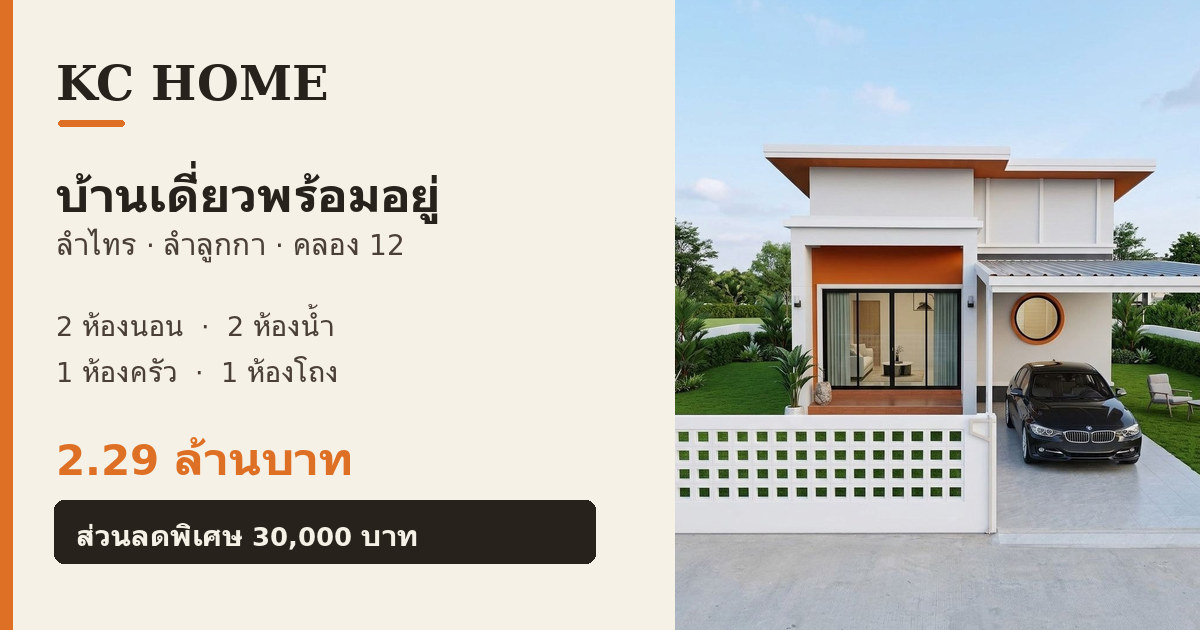
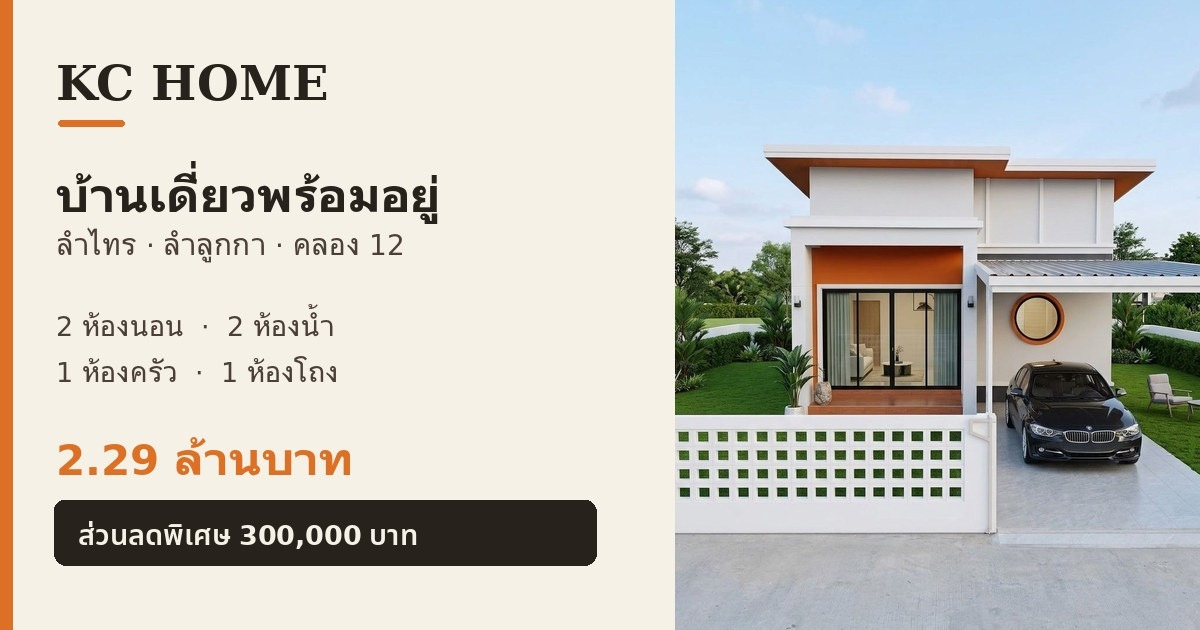
Add files via upload

Changed region(s): [[0.0617, 0.8143, 0.4933, 0.9048], [0.0617, 0.6937, 0.3083, 0.754], [0.0617, 0.181, 0.0925, 0.2111]]

diff --git a/index.html b/index.html
@@ -3,7 +3,7 @@
 <head>
 <meta charset="UTF-8">
 <meta name="viewport" content="width=device-width, initial-scale=1.0">
-<meta name="description" content="KC HOME บ้านเดี่ยวพร้อมอยู่ ลำไทร ลำลูกกา คลอง 12 ราคา 2.29 ล้านบาท 2 ห้องนอน 2 ห้องน้ำ 1 ห้องครัว 1 ห้องโถง ที่จอดรถ 1 คัน พร้อมส่วนลด 30,000 บาท โทร 094-736-6387">
+<meta name="description" content="KC HOME บ้านเดี่ยวพร้อมอยู่ ลำไทร ลำลูกกา คลอง 12 ราคา 2.29 ล้านบาท 2 ห้องนอน 2 ห้องน้ำ 1 ห้องครัว 1 ห้องโถง ที่จอดรถ 1 คัน พร้อมส่วนลด 300,000 บาท โทร 094-736-6387">
 <meta name="robots" content="index, follow, max-image-preview:large">
 <link rel="canonical" href="https://kchome.online/">
 <link rel="icon" href="/favicon.ico" sizes="any">
@@ -16,17 +16,17 @@
 <meta property="og:locale" content="th_TH">
 <meta property="og:site_name" content="KC HOME">
 <meta property="og:title" content="บ้านเดี่ยวพร้อมอยู่ ลำลูกกา คลอง 12 | KC HOME ลำไทร">
-<meta property="og:description" content="บ้านเดี่ยวพร้อมอยู่ ลำไทร ลำลูกกา คลอง 12 ราคา 2.29 ล้านบาท 2 ห้องนอน 2 ห้องน้ำ พร้อมส่วนลด 30,000 บาท โทร 094-736-6387">
+<meta property="og:description" content="บ้านเดี่ยวพร้อมอยู่ ลำไทร ลำลูกกา คลอง 12 ราคา 2.29 ล้านบาท 2 ห้องนอน 2 ห้องน้ำ พร้อมส่วนลด 300,000 บาท โทร 094-736-6387">
 <meta property="og:url" content="https://kchome.online/">
 <meta property="og:image" content="https://kchome.online/assets/images/kc-home-social.jpg">
 <meta property="og:image:secure_url" content="https://kchome.online/assets/images/kc-home-social.jpg">
 <meta property="og:image:type" content="image/jpeg">
 <meta property="og:image:width" content="1200">
 <meta property="og:image:height" content="630">
-<meta property="og:image:alt" content="บ้านเดี่ยว KC HOME ลำไทร ลำลูกกา คลอง 12 ราคา 2.29 ล้านบาท พร้อมส่วนลด 30,000 บาท">
+<meta property="og:image:alt" content="บ้านเดี่ยว KC HOME ลำไทร ลำลูกกา คลอง 12 ราคา 2.29 ล้านบาท พร้อมส่วนลด 300,000 บาท">
 <meta name="twitter:card" content="summary_large_image">
 <meta name="twitter:title" content="บ้านเดี่ยวพร้อมอยู่ ลำลูกกา คลอง 12 | KC HOME ลำไทร">
-<meta name="twitter:description" content="บ้านเดี่ยวพร้อมอยู่ 2 ห้องนอน 2 ห้องน้ำ ราคา 2.29 ล้านบาท พร้อมส่วนลด 30,000 บาท">
+<meta name="twitter:description" content="บ้านเดี่ยวพร้อมอยู่ 2 ห้องนอน 2 ห้องน้ำ ราคา 2.29 ล้านบาท พร้อมส่วนลด 300,000 บาท">
 <meta name="twitter:image" content="https://kchome.online/assets/images/kc-home-social.jpg">
 <meta name="twitter:image:alt" content="บ้านเดี่ยว KC HOME ลำไทร ลำลูกกา คลอง 12">
 <script type="application/ld+json">
@@ -61,7 +61,7 @@
       "@id": "https://kchome.online/#webpage",
       "url": "https://kchome.online/",
       "name": "บ้านเดี่ยวพร้อมอยู่ ลำลูกกา คลอง 12 | KC HOME ลำไทร",
-      "description": "KC HOME บ้านเดี่ยวพร้อมอยู่ ลำไทร ลำลูกกา คลอง 12 ราคา 2.29 ล้านบาท 2 ห้องนอน 2 ห้องน้ำ 1 ห้องครัว 1 ห้องโถง ที่จอดรถ 1 คัน พร้อมส่วนลด 30,000 บาท",
+      "description": "KC HOME บ้านเดี่ยวพร้อมอยู่ ลำไทร ลำลูกกา คลอง 12 ราคา 2.29 ล้านบาท 2 ห้องนอน 2 ห้องน้ำ 1 ห้องครัว 1 ห้องโถง ที่จอดรถ 1 คัน พร้อมส่วนลด 300,000 บาท",
       "inLanguage": "th-TH",
       "isPartOf": {"@id": "https://kchome.online/#website"},
       "primaryImageOfPage": {
@@ -1172,7 +1172,7 @@
         <div class="spec-row"><span class="k"><span class="spec-icon" aria-hidden="true"><svg viewBox="0 0 24 24"><path d="M4 10h16l-1 10H5L4 10Z"/><path d="M3 10h18M7 7V4M12 7V3M17 7V4M8 14h8"/></svg></span>ห้องครัว</span><span class="v">1 ห้อง</span></div>
         <div class="spec-row"><span class="k"><span class="spec-icon" aria-hidden="true"><svg viewBox="0 0 24 24"><path d="M4 12V9a2 2 0 0 1 2-2h12a2 2 0 0 1 2 2v3M3 12h18v6H3zM5 18v2M19 18v2M6 12V9h5v3M13 12V9h5v3"/></svg></span>ห้องโถง</span><span class="v">1 ห้อง</span></div>
         <div class="spec-row"><span class="k"><span class="spec-icon" aria-hidden="true"><svg viewBox="0 0 24 24"><path d="m5 11 2-5h10l2 5M4 11h16l1 3v5h-3v-2H6v2H3v-5l1-3Z"/><path d="M6 14h2M16 14h2"/></svg></span>ที่จอดรถ</span><span class="v">1 คัน</span></div>
-        <div class="spec-row promo-row"><span class="k"><span class="spec-icon" aria-hidden="true"><svg viewBox="0 0 24 24"><path d="M12 3v18M3 12h18"/><circle cx="12" cy="12" r="9"/><path d="M8.5 9.5c0-1.1.9-2 2-2h3a2 2 0 0 1 0 4h-3a2 2 0 0 0 0 4h3c1.1 0 2-.9 2-2"/></svg></span>ส่วนลดพิเศษ</span><span class="v">30,000 บาท</span></div>
+        <div class="spec-row promo-row"><span class="k"><span class="spec-icon promo-icon" aria-hidden="true"><svg viewBox="0 0 24 24" role="img" aria-label="คูปองส่วนลด"><path d="M5.2 4.75h13.6c.8 0 1.45.65 1.45 1.45v2.45a3.35 3.35 0 0 0 0 6.7v2.45c0 .8-.65 1.45-1.45 1.45H5.2c-.8 0-1.45-.65-1.45-1.45V15.35a3.35 3.35 0 0 0 0-6.7V6.2c0-.8.65-1.45 1.45-1.45Z"/><path d="M12 5.1v1.1M12 8.2v1.1M12 11.3v1.1M12 14.4v1.1M12 17.5v1.1" stroke-dasharray="1 1.4" opacity=".62"/><path d="m8.6 14.8 6.8-5.6"/><circle cx="8.7" cy="9.3" r="1.15" fill="currentColor" stroke="none"/><circle cx="15.3" cy="14.7" r="1.15" fill="currentColor" stroke="none"/></svg></span>ส่วนลดพิเศษ</span><span class="v">300,000 บาท</span></div>
         <div class="spec-row"><span class="k">ทำเล</span><span class="v">ลำไทร ลำลูกกา คลอง 12</span></div>
         <div class="spec-row"><span class="k">เอกสารกู้</span><span class="v">พร้อมสำหรับพนักงานประจำ</span></div>
       </div>
